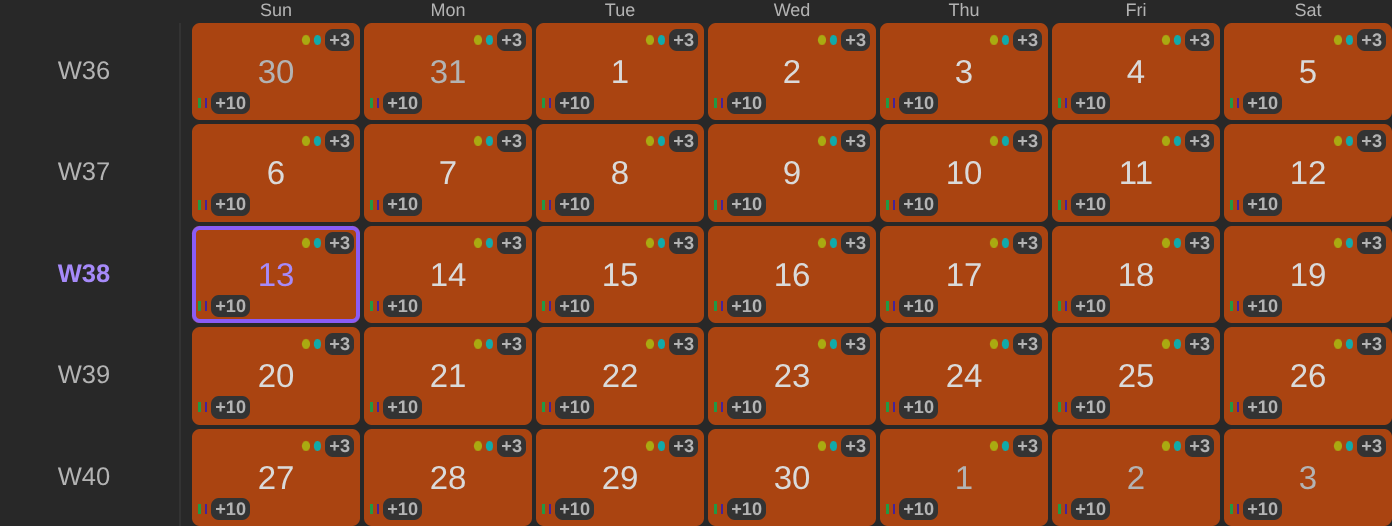
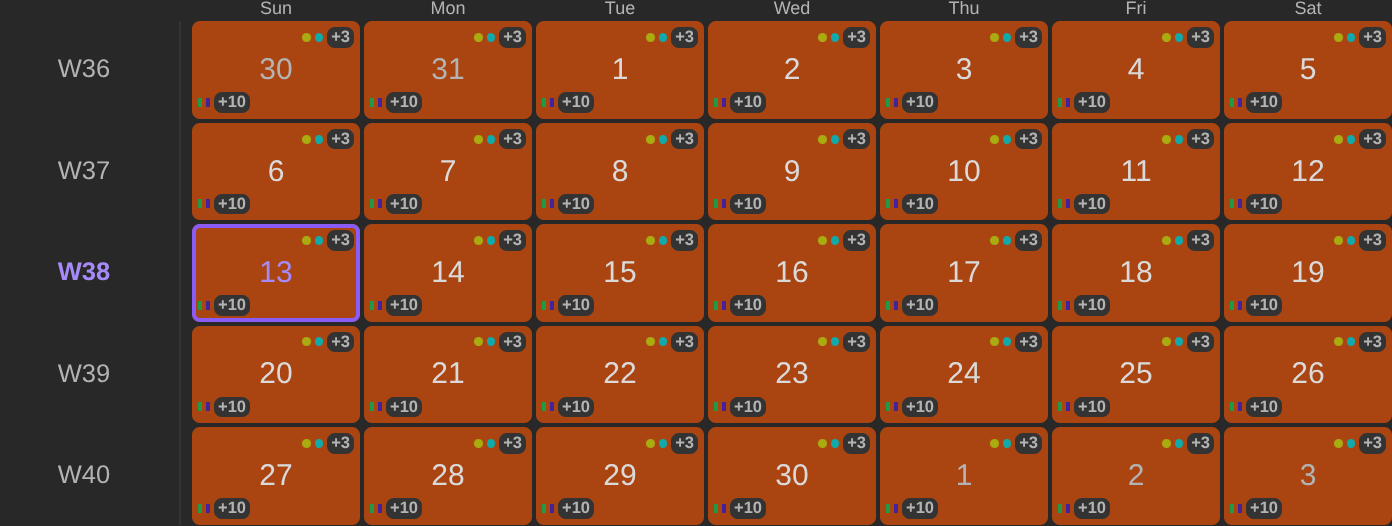
fix(calendar): draw wide dates at the surrounding text's size again
The stock look's 1.1em wide dates came bundled with the growing rows in the
mockup they were picked from, and the rows alone give the squarer cells. The
larger date also scaled every em-sized mark reservation with it, adding 39px
to the month grid's minimum width with full-size icon marks (#619).

Dates go back to inherit at every width, and narrow calendars fall back to
the wide date size again, as before the stock look, so the date has no
narrow stock of its own and no Narrow has its own value tag.

diff --git a/src/notes-calendar/appearance/ui/AppearanceControl.test.ts b/src/notes-calendar/appearance/ui/AppearanceControl.test.ts
@@ -487,26 +487,29 @@ describe("AppearanceControl", () => {
 
   describe("a value narrow keeps its own stock for", () => {
     it("at Wide, a value with a stock narrow tweak says so and applies itself to narrow", async () => {
-      mount("date", control("date", "size"));
+      mount("cell", control("cell", "gap"));
       expect(screen.getByText(m.calendar_appearance_narrow_own())).toBeTruthy();
 
       await userEvent.click(screen.getByRole("button", { name: m.calendar_appearance_narrow_apply() }));
 
-      expect(slice().state.narrow.date.size).toBe("1.1em");
+      expect(slice().state.narrow.cell.gap).toBe("var(--size-2-1)");
       expect(screen.queryByText(m.calendar_appearance_narrow_own())).toBeNull();
       expect(screen.queryByRole("button", { name: m.calendar_appearance_narrow_apply() })).toBeNull();
     });
 
     it("carries no tag at Wide when the wide value is already narrow's stock", () => {
-      slice().state = withValue(slice().state, "wide", "date", ["size"], "1em");
-      mount("date", control("date", "size"));
+      slice().state = withValue(slice().state, "wide", "cell", ["gap"], "1px");
+      mount("cell", control("cell", "gap"));
 
       expect(screen.queryByText(m.calendar_appearance_narrow_own())).toBeNull();
       expect(screen.queryByRole("button", { name: m.calendar_appearance_narrow_apply() })).toBeNull();
     });
 
-    it("a value without a stock narrow tweak carries no tag", () => {
-      mount("today", control("today", "text", "color"));
+    it.each([
+      ["today", ["text", "color"]],
+      ["date", ["size"]],
+    ] as const)("%s %s, which has no stock narrow tweak, carries no tag", (part, path) => {
+      mount(part, control(part, ...path));
 
       expect(screen.queryByText(m.calendar_appearance_narrow_own())).toBeNull();
       expect(screen.queryByRole("button", { name: m.calendar_appearance_narrow_apply() })).toBeNull();
@@ -522,19 +525,19 @@ describe("AppearanceControl", () => {
     });
 
     it("is not tagged at Narrow, where the stock shows as the value", () => {
-      mount("date", control("date", "size"), "narrow");
+      mount("cell", control("cell", "gap"), "narrow");
 
       expect(screen.queryByText(m.calendar_appearance_narrow_own())).toBeNull();
     });
 
     it("once applied, shows Narrow only at Narrow, whose clear brings the stock back", async () => {
-      slice().state = withNarrowFromWide(withValue(slice().state, "wide", "date", ["size"], "1.4em"), "date", ["size"]);
-      mount("date", control("date", "size"), "narrow");
+      slice().state = withNarrowFromWide(withValue(slice().state, "wide", "cell", ["gap"], "3px"), "cell", ["gap"]);
+      mount("cell", control("cell", "gap"), "narrow");
 
       await userEvent.click(screen.getByRole("button", { name: m.calendar_appearance_narrow_only() }));
 
-      expect(slice().state.narrow.date.size).toBeNull();
-      expect(slice().state.wide.date.size).toBe("1.4em");
+      expect(slice().state.narrow.cell.gap).toBeNull();
+      expect(slice().state.wide.cell.gap).toBe("3px");
     });
 
     it("says so for a row height left at Default, but offers no apply that would change nothing", () => {

diff --git a/e2e-tests/journeys/calendar-stock-look.e2e.ts b/e2e-tests/journeys/calendar-stock-look.e2e.ts
@@ -480,18 +480,11 @@ describe("the calendar's stock look", () => {
           return [...(host?.querySelectorAll(".notes-month-view") ?? [])].map((month) => {
             const grid = month.querySelector(".notes-month-view__grid");
             const day = month.querySelector<HTMLElement>('.notes-month-view__day[role="gridcell"]');
-            const row = day?.parentElement;
-            if (!grid || !day || !row) return null;
+            if (!grid || !day) return null;
             return {
               narrow: month.clientWidth < ems * Number.parseFloat(getComputedStyle(month).fontSize),
               minHeight: Math.round(Number.parseFloat(getComputedStyle(day).minHeight)),
               gap: Math.round(Number.parseFloat(getComputedStyle(grid).rowGap)),
-              dateSize:
-                Math.round(
-                  (Number.parseFloat(getComputedStyle(day).fontSize) /
-                    Number.parseFloat(getComputedStyle(row).fontSize)) *
-                    100,
-                ) / 100,
             };
           });
         },
@@ -502,11 +495,7 @@ describe("the calendar's stock look", () => {
       for (const month of months) {
         expect(month).not.toBeNull();
         expect(month?.narrow).toBe(true);
-        expect({ minHeight: month?.minHeight, gap: month?.gap, dateSize: month?.dateSize }).toEqual({
-          minHeight: 26,
-          gap: 1,
-          dateSize: 1,
-        });
+        expect({ minHeight: month?.minHeight, gap: month?.gap }).toEqual({ minHeight: 26, gap: 1 });
       }
     });
   });

diff --git a/src/notes-calendar/appearance/ui/AppearancePreview.vue b/src/notes-calendar/appearance/ui/AppearancePreview.vue
@@ -458,7 +458,7 @@ function pickedClass(isPicked: boolean): Record<string, boolean> {
   text-transform: var(--_v-week-number-case);
 }
 .appearance-preview__day {
-  --_v-date-size: var(--journal-cell-date-size, var(--journal-saved-cell-date-size, 1.1em));
+  --_v-date-size: var(--journal-cell-date-size, var(--journal-saved-cell-date-size, inherit));
   --_v-date-weight: var(--journal-cell-date-weight, var(--journal-saved-cell-date-weight, inherit));
   --_v-date-italic: var(--journal-cell-date-italic, var(--journal-saved-cell-date-italic, inherit));
   --_v-date-color: var(--journal-cell-date-color, var(--journal-saved-cell-date-color, inherit));
@@ -667,7 +667,13 @@ function pickedClass(isPicked: boolean): Record<string, boolean> {
     );
   }
   .appearance-preview__day {
-    --_v-date-size: var(--journal-cell-date-size-narrow, var(--journal-saved-cell-date-size-narrow, 1em));
+    --_v-date-size: var(
+      --journal-cell-date-size-narrow,
+      var(
+        --journal-saved-cell-date-size-narrow,
+        var(--journal-cell-date-size, var(--journal-saved-cell-date-size, inherit))
+      )
+    );
     --_v-date-weight: var(
       --journal-cell-date-weight-narrow,
       var(

diff --git a/e2e-tests/screenshots/css-variables.shot.ts b/e2e-tests/screenshots/css-variables.shot.ts
@@ -337,7 +337,7 @@ describe("CSS variables examples", () => {
       await forceBlockWidth("");
     });
 
-    it("gives narrow calendars 34px rows and the wide date size, and leaves wide ones alone", async () => {
+    it("gives narrow calendars 34px rows, and leaves wide ones alone", async () => {
       const stockWide = await rowsAt(WIDE);
       const stockNarrow = await rowsAt(NARROW);
 
@@ -357,12 +357,11 @@ describe("CSS variables examples", () => {
         snippetWide,
         // Rounded: Obsidian's zoom scales authored pixels.
         narrowRowMinHeightPx: Math.round(snippetNarrow.minHeight ?? 0),
-        narrowDateMatchesWideStock: snippetNarrow.dateFontSize === stockWide.dateFontSize,
         wideUnchanged:
           snippetWide.minHeight === stockWide.minHeight && snippetWide.dateFontSize === stockWide.dateFontSize,
       };
       await recordOutcome("css-variables-narrow-rows", outcome);
-      if (outcome.narrowRowMinHeightPx !== 34 || !outcome.narrowDateMatchesWideStock || !outcome.wideUnchanged)
+      if (outcome.narrowRowMinHeightPx !== 34 || !outcome.wideUnchanged)
         throw new ExampleMismatchError("narrow rows", outcome);
     });
   });

diff --git a/src/notes-calendar/ui/NotesMonthView.vue b/src/notes-calendar/ui/NotesMonthView.vue
@@ -512,7 +512,7 @@ const isSelected = (period: Period): boolean =>
   text-transform: var(--_v-week-number-case);
 }
 .notes-month-view__day {
-  --_v-date-size: var(--journal-cell-date-size, var(--journal-saved-cell-date-size, 1.1em));
+  --_v-date-size: var(--journal-cell-date-size, var(--journal-saved-cell-date-size, inherit));
   --_v-date-weight: var(--journal-cell-date-weight, var(--journal-saved-cell-date-weight, inherit));
   --_v-date-italic: var(--journal-cell-date-italic, var(--journal-saved-cell-date-italic, inherit));
   --_v-date-color: var(--journal-cell-date-color, var(--journal-saved-cell-date-color, inherit));
@@ -722,7 +722,13 @@ const isSelected = (period: Period): boolean =>
     );
   }
   .notes-month-view__day {
-    --_v-date-size: var(--journal-cell-date-size-narrow, var(--journal-saved-cell-date-size-narrow, 1em));
+    --_v-date-size: var(
+      --journal-cell-date-size-narrow,
+      var(
+        --journal-saved-cell-date-size-narrow,
+        var(--journal-cell-date-size, var(--journal-saved-cell-date-size, inherit))
+      )
+    );
     --_v-date-weight: var(
       --journal-cell-date-weight-narrow,
       var(

diff --git a/src/notes-calendar/ui/NotesWeekView.vue b/src/notes-calendar/ui/NotesWeekView.vue
@@ -458,7 +458,7 @@ const isSelected = (period: Period): boolean =>
   text-transform: var(--_v-week-number-case);
 }
 .notes-week-view__day {
-  --_v-date-size: var(--journal-cell-date-size, var(--journal-saved-cell-date-size, 1.1em));
+  --_v-date-size: var(--journal-cell-date-size, var(--journal-saved-cell-date-size, inherit));
   --_v-date-weight: var(--journal-cell-date-weight, var(--journal-saved-cell-date-weight, inherit));
   --_v-date-italic: var(--journal-cell-date-italic, var(--journal-saved-cell-date-italic, inherit));
   --_v-date-color: var(--journal-cell-date-color, var(--journal-saved-cell-date-color, inherit));
@@ -635,7 +635,13 @@ const isSelected = (period: Period): boolean =>
     );
   }
   .notes-week-view__day {
-    --_v-date-size: var(--journal-cell-date-size-narrow, var(--journal-saved-cell-date-size-narrow, 1em));
+    --_v-date-size: var(
+      --journal-cell-date-size-narrow,
+      var(
+        --journal-saved-cell-date-size-narrow,
+        var(--journal-cell-date-size, var(--journal-saved-cell-date-size, inherit))
+      )
+    );
     --_v-date-weight: var(
       --journal-cell-date-weight-narrow,
       var(

diff --git a/src/notes-calendar/appearance/appearance-catalog.test.ts b/src/notes-calendar/appearance/appearance-catalog.test.ts
@@ -142,15 +142,16 @@ describe("stock narrow values", () => {
     ).toEqual(withStockNarrow.map((entry) => ({ name: entry.name, css: entry.stockNarrow })));
   });
 
-  it("states the growing row height and the larger wide dates as their stock", () => {
-    expect([
-      find("journal-cell-cell-min-height"),
-      find("journal-cell-date-size"),
-      find("journal-cell-cell-gap"),
-    ]).toEqual([
+  it("states the growing row height and the wide gap as their stock", () => {
+    expect([find("journal-cell-cell-min-height"), find("journal-cell-cell-gap")]).toEqual([
       expect.objectContaining({ stock: "clamp(26px, 7cqi, 64px)", stockNarrow: "26px" }),
-      expect.objectContaining({ stock: "1.1em", stockNarrow: "1em" }),
       expect.objectContaining({ stock: "var(--size-2-1)", stockNarrow: "1px" }),
     ]);
+  });
+
+  it("draws dates at the surrounding text's size at every width", () => {
+    const date = find("journal-cell-date-size");
+    expect(date?.stock).toBe("inherit");
+    expect(date?.stockNarrow).toBeUndefined();
   });
 });

diff --git a/src/notes-calendar/appearance/appearance-variables.test.ts b/src/notes-calendar/appearance/appearance-variables.test.ts
@@ -177,7 +177,13 @@ describe("appearanceVariables", () => {
     state.narrow.cell.minHeight = 30;
 
     expect(mergedPart(state, "cell")).toEqual({ padding: 2, radius: "var(--radius-s)", gap: "1px", minHeight: 30 });
-    expect(mergedPart(state, "date").size).toBe("1em");
+  });
+
+  it("the narrow date takes the wide size, having no stock of its own", () => {
+    const state = fresh();
+    state.wide.date.size = "1.4em";
+
+    expect(mergedPart(state, "date").size).toBe("1.4em");
   });
 
   it("a ring style writes the ring width and zero strength", () => {
@@ -385,7 +391,7 @@ function* selectedStates(): Generator<AppearanceSliceState> {
 }
 
 function* dateAndCellStates(): Generator<AppearanceSliceState> {
-  for (const wideSize of ["1.1em", "1.4em", "1em"])
+  for (const wideSize of ["inherit", "1.4em", "1em"])
     for (const narrowSize of [null, "1em", "2em"])
       for (const wideGap of ["var(--size-2-1)", "3px", "1px"])
         for (const narrowGap of [null, "1px", "4px"])

diff --git a/src/notes-calendar/appearance/slice.test.ts b/src/notes-calendar/appearance/slice.test.ts
@@ -73,15 +73,14 @@ describe("appearanceSlice", () => {
       dividerColor: theme("background-modifier-border"),
       dividerWidth: 1,
     });
-    expect(wide.date).toEqual({ ...asToday, size: "1.1em" });
+    expect(wide.date).toEqual(asToday);
     // Null, not a number: Default is a row height that grows with the calendar's width.
     expect(wide.cell).toEqual({ padding: 0, radius: "var(--radius-s)", gap: "var(--size-2-1)", minHeight: null });
   });
 
-  it("narrow keeps one-em dates, one-pixel gaps, 26px rows and a 20% Selected background as its stock", () => {
+  it("narrow keeps one-pixel gaps, 26px rows and a 20% Selected background as its stock", () => {
     expect(STOCK_NARROW).toEqual({
       selected: { style: "background", strength: 20 },
-      date: { size: "1em" },
       cell: { gap: "1px", minHeight: 26 },
     });
   });

diff --git a/src/notes-calendar/appearance/appearance-catalog.ts b/src/notes-calendar/appearance/appearance-catalog.ts
@@ -210,8 +210,7 @@ const TEXT_PARTS = [
   {
     part: "date",
     selector: ".notes-month-view__day:not([data-outside])",
-    size: "1.1em",
-    sizeNarrow: "1em",
+    size: "inherit",
     weight: "inherit",
     color: "inherit",
   },
@@ -221,12 +220,10 @@ function textEntries(): CatalogEntry[] {
   return TEXT_PARTS.flatMap((text) => {
     const { part, selector, size, weight, color } = text;
     const name = (value: string): string => `journal-cell-${part}-${value}`;
-    const sizeNarrow = "sizeNarrow" in text ? { stockNarrow: text.sizeNarrow } : {};
     return [
       {
         name: name("size"),
         stock: size,
-        ...sizeNarrow,
         probe: { selector, property: "font-size", sample: "21px", expect: "21px" },
       },
       {

diff --git a/src/notes-calendar/appearance/appearance-editing.test.ts b/src/notes-calendar/appearance/appearance-editing.test.ts
@@ -466,12 +466,12 @@ describe("label formats in modified and reset", () => {
 
 describe("narrow's own stock value", () => {
   it("is known for the leaves stock narrow sets, and only those", () => {
-    expect(hasStockNarrow("date", ["size"])).toBe(true);
     expect(hasStockNarrow("cell", ["gap"])).toBe(true);
     expect(hasStockNarrow("cell", ["minHeight"])).toBe(true);
     expect(hasStockNarrow("selected", ["style"])).toBe(true);
     expect(hasStockNarrow("selected", ["strength"])).toBe(true);
     expect(hasStockNarrow("cell", ["padding"])).toBe(false);
+    expect(hasStockNarrow("date", ["size"])).toBe(false);
     expect(hasStockNarrow("today", TEXT_COLOR)).toBe(false);
   });
 

diff --git a/src/notes-calendar/appearance/slice.ts b/src/notes-calendar/appearance/slice.ts
@@ -196,7 +196,7 @@ const wideDefaults = {
     dividerColor: theme("background-modifier-border"),
     dividerWidth: 1,
   } satisfies WeekNumberValues,
-  date: text({ size: "1.1em" }),
+  date: text({}),
   cell: { padding: 0, radius: "var(--radius-s)", gap: "var(--size-2-1)", minHeight: null },
 };
 
@@ -261,7 +261,6 @@ export type StockNarrow = { readonly [P in keyof NarrowOverrides]?: DeepPartialN
 /** What narrow shows where the user set nothing at narrow, ahead of their wide value. */
 export const STOCK_NARROW: StockNarrow = {
   selected: { style: "background", strength: 20 },
-  date: { size: "1em" },
   cell: { gap: "1px", minHeight: ROW_FLOOR_PX },
 };
 
